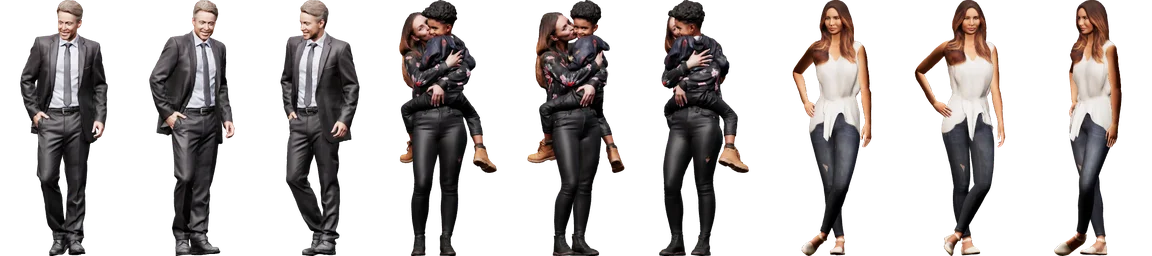
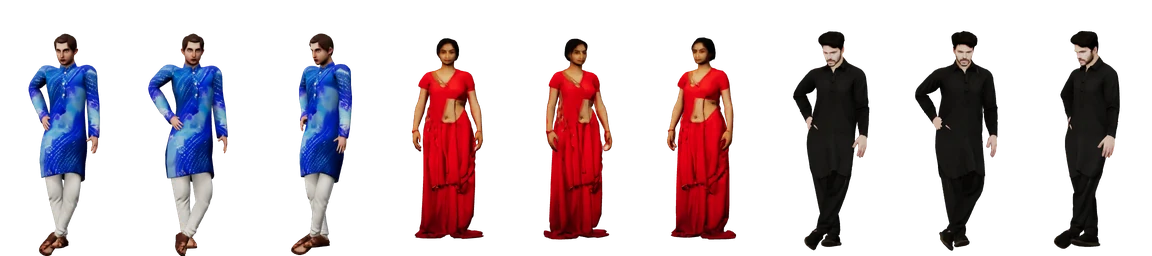
দূরের ভিড় আর বাসের যাত্রীদের ছবিও বাংলাদেশি মানুষ (পাঞ্জাবি, শাড়ি, সালোয়ার-কামিজ)
Claude-Session: https://claude.ai/code/session_01Sj7bchcmtN9he5YMGDxq5J

diff --git a/tools/people/atlas.html b/tools/people/atlas.html
@@ -1,0 +1,17 @@
+<!doctype html><html><body style="margin:0;background:transparent">
+<!-- দূরের ভিড়ের ছবি বানানো: kh-people-এর বাংলাদেশি মানুষ দাঁড়ানো ভঙ্গিতে, স্বচ্ছ পটভূমিতে। tools/people/atlas.cjs চালায়। -->
+<script type="module">
+import * as THREE from "/js/vendor/three.module.min.js";
+import { GLTFLoader } from "/js/vendor/addons/GLTFLoader.js";
+import { MeshoptDecoder } from "/js/vendor/addons/meshopt_decoder.module.js";
+import { clone } from "/js/vendor/addons/SkeletonUtils.js";
+import { loadPeople } from "/js/kh-people.js";
+const r = new THREE.WebGLRenderer({ alpha: true, antialias: true, preserveDrawingBuffer: true }); r.setClearColor(0, 0); r.outputColorSpace = THREE.SRGBColorSpace; r.toneMapping = THREE.ACESFilmicToneMapping;
+const sc = new THREE.Scene(); sc.add(new THREE.HemisphereLight('#eef2ff', '#7a6a50', 1.3)); const sun = new THREE.DirectionalLight('#fff2dd', 2.2); sun.position.set(-3, 5, 6); sc.add(sun);
+const P = await loadPeople(THREE, GLTFLoader, MeshoptDecoder, clone);
+// job: [make-index, yaw, crop(0 পুরো শরীর / 1 কোমর থেকে উপরে)]
+window.cell = (idx, yaw, seat, W, H) => { r.setSize(W, H); const h = P.make(idx, { scale: 1, shadow: false }); sc.add(h.root); h.root.rotation.y = yaw; for (let k = 0; k < 40; k++) h.update(1 / 30, 0, 1);
+  const cam = new THREE.PerspectiveCamera(seat ? 22 : 16, W / H, .1, 50); if (seat) { cam.position.set(0, 1.25, 4.2); cam.lookAt(0, 1.22, 0); } else { cam.position.set(0, .86, 7.2); cam.lookAt(0, .86, 0); }
+  r.render(sc, cam); sc.remove(h.root); return r.domElement.toDataURL('image/png'); };
+window.READY = 1;
+</script></body></html>

diff --git a/games/racer/index.html b/games/racer/index.html
@@ -798,7 +798,7 @@ function placeBazaar(st, first) {
 /* ================= বাস স্টপেজ, যাত্রী, ভাড়া ================= */
 // মানুষ: Renderpeople-এর আসল স্ক্যান (CC-BY) আগে থেকে ছবি করা, ৩ জন × ৩ দিক = ৯ ঘরের atlas
 const pplTex = texL.load(A + 'people.webp'); pplTex.colorSpace = THREE.SRGBColorSpace;
-const PPL_H = [1.74, 1.66, 1.63], MAXW = 40;
+const PPL_H = [1.82, 1.66, 1.84], MAXW = 40;
 const stopG = new THREE.Group(); stopG.position.set(0, -.3, -900); scene.add(stopG);
 const STOP_X = -HALF - .9; // শোল্ডারে বাস থামার জায়গা (রাস্তার বাম কিনারা)
 let stopPeople = null, stopName = '', stopWait = [];

diff --git a/NEXT.md b/NEXT.md
@@ -443,7 +443,8 @@
 - নতুন মডেল (Sketchfab CC-BY, assets/people/CREDITS.txt): পুরুষ = নীল পাঞ্জাবি, লাল পাঞ্জাবি, সাদা পাঞ্জাবির বয়স্ক, কালো সালোয়ার-কামিজ-টুপি (সবগুলো Mixamo-ধাঁচের কঙ্কাল); মহিলা = সবুজ শাড়ি, লাল শাড়ি, নীল শাড়ি, কালো বোরকা (স্থির মডেল)। বাদ: ধুতি (মডেল ভাঙা), হিজাব (T-পোজ, স্থির), গোলাপি/আকাশি পাঞ্জাবি (খুব ভারী/জটিল কঙ্কাল)। মূল ফাইলের অ্যানিমেশন (Mixamo-র হতে পারে) বাদ।
 - `js/kh-people.js` নতুন করে লেখা, ব্যবহার আগের মতোই (make(i), update(dt, moving, speed)); i%5 = M F F M F আগের মতো। পুরুষ: লুকানো Renderpeople "ভূত" কঙ্কাল হাঁটে/দাঁড়ায়, প্রতি ফ্রেমে প্রতিটা হাড়ের বিশ্ব-ঘূর্ণন থেকে বিশ্রাম-ভঙ্গির পার্থক্য হিসাব করে নতুন কঙ্কালে বসানো (retarget); শুরুতে A-পোজ/T-পোজ মেলাতে প্রতিটা হাড় উৎসের দিকে তাক করা হয়। মহিলা: শাড়ি-বোরকায় পা ঢাকা, তাই হাঁটা = ওঠানামা + দোলা। কিছু লোড না হলে পুরনো Renderpeople।
 - হাইওয়ে রাজার বাসস্টপের ৩ডি যাত্রীও এখন kh-people দিয়ে। ২০টা গেমে কোনো ভুল নেই (Playwright), মেট্রো/ইন্টারভিউ/ঈদ টিকিটে ছবি দেখে যাচাই।
-- পরের ধাপ: দূরের ভিড়ের ছবি (games/racer/assets/people.webp, people_seat.webp) বাংলাদেশি মানুষ দিয়ে নতুন করে তোলা; তারপর একেকটা গেমের মান।
+- ✅ দূরের ভিড়ের ছবি (games/racer/assets/people.webp ৩ জন × ৩ দিক, people_seat.webp ৩ জন × ২ দিক) এখন বাংলাদেশি মানুষ: `tools/people/atlas.html` + `atlas.cjs` (kh-people দিয়ে ব্রাউজারে রেন্ডার)। হাইওয়ে রাজার PPL_H বদলানো। স্টেডিয়াম, নৌকা বাইচ, পিঠা মেলা, জ্যাম রানারের বাসেও বদল।
+- জানা ঘাটতি: শেষ বলে ছক্কার ফিল্ডার-বোলার পাঞ্জাবি পরা (খেলার জার্সি মডেল দরকার)। হাডুডু/গোল্লাছুটের মতো পুরনো গেম নিজের kh-human ব্যবহার করে, ওগুলো এখনো বদলায়নি।
 
 ## ৬. কারিগরি নোট (পরের Claude-এর জন্য)
 
